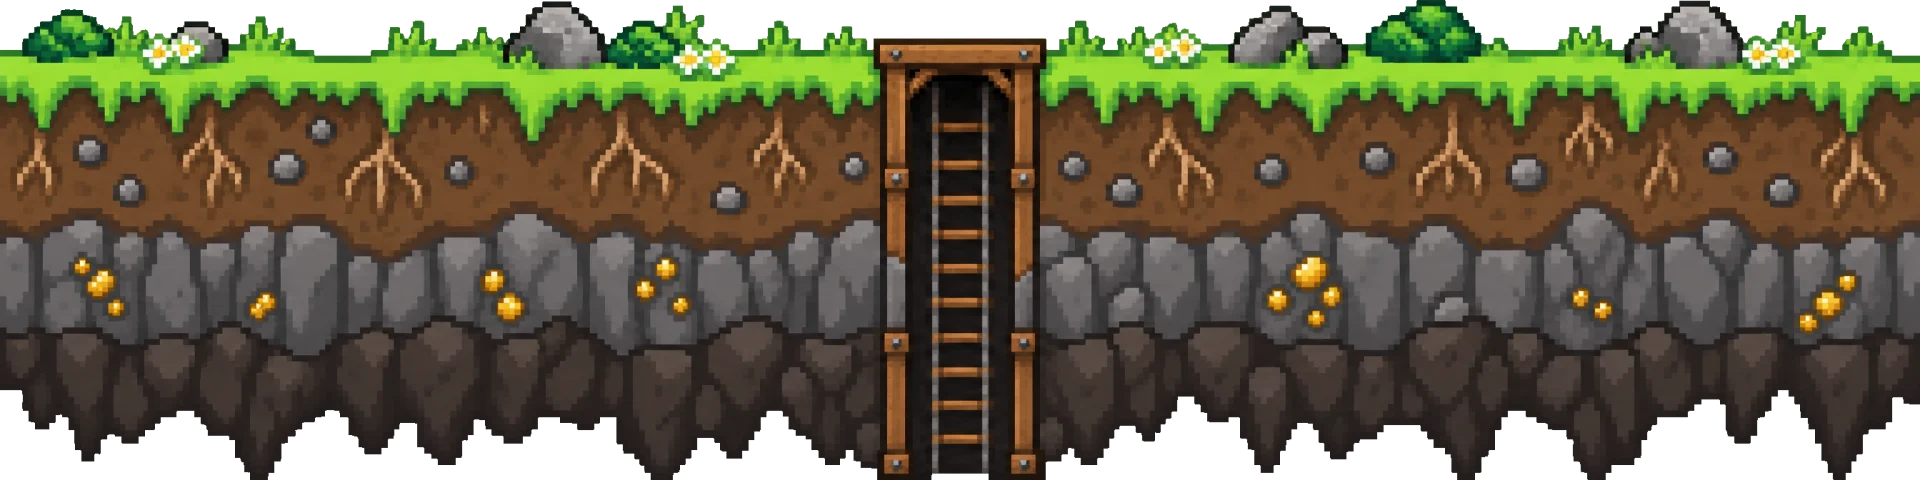
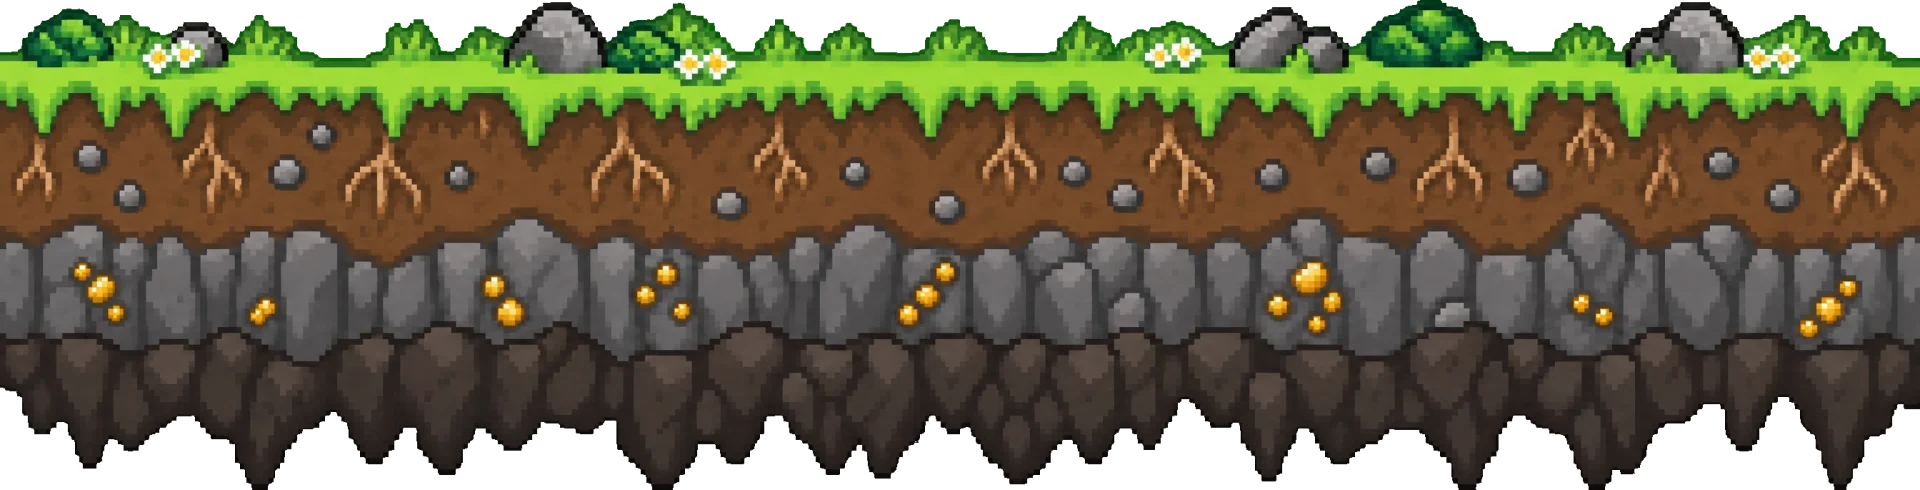
Continuity fixes: centred-trail slope, mine entrance sprite, shaft-free strata, compact footer
- New mountain face whose trail meets the summit's (x 50.3% vs 49.8%)
- Mine entrance as its own sprite sitting on the ground band's grass
- Ground/rock/magma bands regenerated without ladder/stairs
- Rules plank clear of the rock band; magma band cropped short
- Footer: no lava lake, slim bottom bar

diff --git a/components/Feed.tsx b/components/Feed.tsx
@@ -20,7 +20,7 @@ export function Feed({ state, now }: { state: GameState; now: number }) {
     <section id="challengers" aria-labelledby="feed-title" className="relative z-[6] -mt-[72px] scroll-mt-16 overflow-hidden" {...zoneAttrs("challengers")}>
       {/* One painted mountainside: the trail winds down to the mine entrance at the bottom. */}
       <div
-        className="absolute inset-0 bg-[#5f5e5d] bg-[image:image-set(url(/assets/mountain-face-800.webp)_1x,url(/assets/mountain-face-1360.webp)_2x)] bg-cover bg-[position:50%_100%] [image-rendering:pixelated] [mask-image:linear-gradient(to_bottom,transparent_0,black_72px)] lg:bg-[image:url(/assets/mountain-face-1360.webp)]"
+        className="absolute inset-0 bg-[#6a9a3a] bg-[image:image-set(url(/assets/mountain-face2-800.webp)_1x,url(/assets/mountain-face2-1440.webp)_2x)] bg-cover bg-[position:50%_0] [image-rendering:pixelated] [mask-image:linear-gradient(to_bottom,transparent_0,black_56px)] lg:bg-[image:url(/assets/mountain-face2-1440.webp)]"
         aria-hidden
       />
       <div className="absolute inset-0 bg-[linear-gradient(to_bottom,rgb(15_29_58/.05),rgb(15_29_58/.25)_40%,rgb(15_29_58/.25)_75%,transparent_92%)]" aria-hidden />
@@ -50,7 +50,6 @@ export function Feed({ state, now }: { state: GameState; now: number }) {
             </div>
           ) : (
             <ol className="relative" aria-label="Recent call outs, newest first">
-              <span className="trail-rope absolute top-0 bottom-0 left-[22px] w-1.5 opacity-80 lg:left-1/2 lg:-translate-x-1/2" aria-hidden />
               {items.map((c, i) => (
                 <Camp key={c.id} c={c} i={i} now={now} isKing={state.status === "live" && state.king?.id === c.id} />
               ))}
@@ -67,11 +66,23 @@ export function Feed({ state, now }: { state: GameState; now: number }) {
         </div>
       </div>
 
-      {/* The trail ends at the mine: leave room so the painted entrance shows. */}
-      <div className="relative flex h-[340px] items-start justify-center pt-6 sm:h-[400px] lg:h-[460px]">
-        <a href="#mine" className="px-box bg-[#5b3a22] px-4 py-2 font-display text-sm font-bold tracking-[0.18em] text-gold uppercase hover:bg-[#7a5030]">
+      {/* The trail ends at the mine entrance, which sits on the grass of the ground cross-section below. */}
+      <div className="relative flex h-[380px] flex-col items-center sm:h-[440px] lg:h-[520px]">
+        <a href="#mine" className="px-box relative z-10 mt-4 bg-[#5b3a22] px-4 py-2 font-display text-sm font-bold tracking-[0.18em] text-gold uppercase hover:bg-[#7a5030]">
           Enter the mine <span aria-hidden>▼</span>
         </a>
+        {/* eslint-disable-next-line @next/next/no-img-element */}
+        <img
+          src="/assets/mine-entrance-900.webp"
+          srcSet="/assets/mine-entrance-480.webp 480w, /assets/mine-entrance-900.webp 900w"
+          sizes="clamp(300px, 34vw, 560px)"
+          alt="A mine entrance in a mossy rock outcrop, with a lantern and rails leading in"
+          width={900}
+          height={612}
+          loading="lazy"
+          className="pixelated absolute left-1/2 w-[clamp(300px,34vw,560px)] -translate-x-1/2"
+          style={{ bottom: "calc(max(100vw, 760px) * 0.03)" }}
+        />
       </div>
     </section>
   );

diff --git a/components/Footer.tsx b/components/Footer.tsx
@@ -3,25 +3,18 @@ import { shortAddr } from "@/lib/format";
 import { CopyButton } from "./CopyButton";
 import { zoneAttrs } from "./Descent";
 
-const EMBERS = Array.from({ length: 14 }, (_, i) => ({
-  left: (i * 37 + 5) % 100,
-  delay: -((i * 1.7) % 7),
-  dur: 4 + ((i * 13) % 5),
-  dx: ((i % 5) - 2) * 10,
-}));
-
 const LINKS = [
   { href: "#challengers", label: "Challengers" },
   { href: "#mine", label: "How to play" },
   { href: "#hall", label: "Hall of kings" },
 ];
 
-// The core: the bottom of the mountain. A compact footer on basalt, with the
-// lava lake glowing underneath.
+// The core: the bottom of the mountain. A compact footer on basalt, right
+// under the lava band.
 export function Footer() {
   return (
     <footer id="core" className="relative overflow-hidden bg-[#1d1c21] text-cloud" {...zoneAttrs("core")}>
-      <div className="relative mx-auto grid max-w-[1240px] gap-10 px-4 pt-[max(9vw,72px)] pb-10 sm:px-6 md:grid-cols-[1.2fr_1fr_1.2fr] md:items-start">
+      <div className="relative mx-auto grid max-w-[1240px] gap-10 px-4 pt-[max(5vw,56px)] pb-8 sm:px-6 md:grid-cols-[1.2fr_1fr_1.2fr] md:items-start">
         <div>
           <a href="#top" className="inline-flex items-center gap-3" aria-label="Back to the summit">
             {/* eslint-disable-next-line @next/next/no-img-element */}
@@ -79,23 +72,12 @@ export function Footer() {
         </div>
       </div>
 
-      {/* The lava lake at the very bottom of the mountain */}
-      <div className="relative h-[140px] overflow-hidden sm:h-[180px]" aria-hidden>
-        {/* eslint-disable-next-line @next/next/no-img-element */}
-        <img
-          src="/assets/core-1920.webp"
-          srcSet="/assets/core-960.webp 960w, /assets/core-1920.webp 1920w"
-          sizes="100vw"
-          alt=""
-          width={1920}
-          height={823}
-          loading="lazy"
-          className="lava-shimmer pixelated absolute inset-x-0 bottom-0 h-[300%] w-full object-cover object-bottom"
-        />
-        <div className="absolute inset-x-0 top-0 h-16 bg-gradient-to-b from-[#1d1c21] to-transparent" />
-        {EMBERS.map((e, i) => (
-          <span key={i} className="ember" style={{ left: `${e.left}%`, animationDelay: `${e.delay}s`, animationDuration: `${e.dur}s`, ["--dx" as string]: `${e.dx}px` }} />
-        ))}
+      <div className="relative border-t-4 border-[#2e2c33]">
+        <div className="mx-auto flex max-w-[1240px] flex-wrap items-center justify-between gap-3 px-4 py-4 font-display text-xs font-bold tracking-wider text-cloud/55 uppercase sm:px-6">
+          <span>© {new Date().getFullYear()} King of the Hill</span>
+          <span>Powered by GMGN call outs</span>
+        </div>
+        <div className="h-1 bg-gradient-to-r from-[#e8601c] via-[#fbd322] to-[#e8601c]" aria-hidden />
       </div>
     </footer>
   );

diff --git a/components/Descent.tsx b/components/Descent.tsx
@@ -41,18 +41,30 @@ export function Edge({ fill, seed = 1, height = 40, flip = false, className = ""
 }
 
 const STRATA = {
-  ground: { w: 1920, h: 480, alt: "Cross-section of the ground: grass, roots and rock, with a mine shaft and ladder going down" },
-  rock: { w: 1920, h: 584, alt: "Deep rock layers with crystals and gold veins; the shaft ladder leads down into the crypt's stone arches" },
-  magma: { w: 1920, h: 490, alt: "Basalt with glowing lava cracks; stone stairs lead down to the core" },
+  ground: { w: 1920, h: 490, alt: "Cross-section of the ground: grass, roots, soil and rock" },
+  rock: { w: 1920, h: 588, alt: "Deep rock with crystals and gold veins above the crypt's stone arches" },
+  magma: { w: 1920, h: 500, alt: "Basalt with glowing lava cracks at the bottom of the mountain" },
 } as const;
 
 // A cross-section band of rock that bridges two layers of the descent. It
-// overlaps both neighbours (negative margins) so there is never a hard cut,
-// and its central shaft (ladder, then stairs) is the thread down the page.
-// overlapTop / overlapBottom are fractions of the band's rendered height.
-export function Stratum({ kind, overlapTop, overlapBottom }: { kind: keyof typeof STRATA; overlapTop: number; overlapBottom: number }) {
+// overlaps both neighbours (negative margins, as fractions of its rendered
+// height) so there is never a hard cut. `height` shows a shorter band cropped
+// from the top (its jagged bottom edge is kept), faded into the layer above.
+export function Stratum({
+  kind,
+  overlapTop,
+  overlapBottom,
+  height,
+  fadeFrom,
+}: {
+  kind: keyof typeof STRATA;
+  overlapTop: number;
+  overlapBottom: number;
+  height?: string;
+  fadeFrom?: string;
+}) {
   const a = STRATA[kind];
-  const h = `(max(100vw, 760px) * ${a.h / a.w})`;
+  const h = height ?? `(max(100vw, 760px) * ${a.h / a.w})`;
   return (
     <div className="pointer-events-none relative z-20 overflow-x-clip" style={{ marginTop: `calc(-1 * ${h} * ${overlapTop})`, marginBottom: `calc(-1 * ${h} * ${overlapBottom})` }}>
       {/* eslint-disable-next-line @next/next/no-img-element */}
@@ -64,8 +76,10 @@ export function Stratum({ kind, overlapTop, overlapBottom }: { kind: keyof typeo
         width={a.w}
         height={a.h}
         loading="lazy"
-        className="pixelated relative left-1/2 block w-[max(100vw,760px)] max-w-none -translate-x-1/2"
+        className="pixelated relative left-1/2 block w-[max(100vw,760px)] max-w-none -translate-x-1/2 object-cover object-bottom"
+        style={height ? { height: `calc(${height})` } : undefined}
       />
+      {fadeFrom ? <div className="absolute inset-x-0 top-0 h-1/3" style={{ background: `linear-gradient(${fadeFrom}, transparent)` }} /> : null}
     </div>
   );
 }

diff --git a/components/HowTo.tsx b/components/HowTo.tsx
@@ -54,7 +54,7 @@ export function HowTo() {
         </div>
       </div>
 
-      <div className="relative mx-auto max-w-[1240px] px-4 pb-24 sm:px-6">
+      <div className="relative mx-auto max-w-[1240px] px-4 pb-[calc(max(100vw,760px)*0.08+64px)] sm:px-6">
         <ol className="grid gap-x-8 gap-y-14 md:grid-cols-3">
           {STEPS.map((s, i) => (
             <li key={s.n} data-reveal style={{ ["--i" as string]: i }} className="relative pt-10">

diff --git a/components/Game.tsx b/components/Game.tsx
@@ -18,7 +18,7 @@ export function Game({ initial }: { initial: GameState }) {
       <HowTo />
       <Stratum kind="rock" overlapTop={0.24} overlapBottom={0.36} />
       <Hall state={state} />
-      <Stratum kind="magma" overlapTop={0.26} overlapBottom={0.26} />
+      <Stratum kind="magma" overlapTop={0.12} overlapBottom={0.2} height="clamp(190px, 17vw, 300px)" fadeFrom="#161a2e" />
     </>
   );
 }

diff --git a/components/Hall.tsx b/components/Hall.tsx
@@ -113,7 +113,7 @@ export function Hall({ state }: { state: GameState }) {
         ) : null}
       </div>
 
-      <div className="h-24" />
+      <div className="h-6" />
     </section>
   );
 }

diff --git a/AGENTS.md b/AGENTS.md
@@ -30,13 +30,13 @@ A game site for a Flap token: the **last GMGN call out** on the token holds the 
 ## Design direction: "The Descent" (v4, 2026-09-27)
 The whole page is one mountain, read top to bottom. **Continuity between layers is the top priority**: no hard cuts. Every boundary is bridged by art that overlaps both neighbours.
 - **Summit** (hero, title screen): wordmark centred at the top, clock on the left, current king on the right, and the croc on the peak in the middle (`summit2-*`). Its base fills the full width, and its trail exits at the bottom centre.
-- **Slopes** (challengers): `mountain-face-*` fades in over the summit's base (the section is pulled up 72px with a masked top), so both trails connect. Challenger camps line the trail, which ends at a painted mine entrance.
-- **Stratum "ground"**: a cross-section of grass, soil and rock with a **mine shaft and ladder at the centre**, directly under the entrance.
+- **Slopes** (challengers): `mountain-face2-*` (its trail runs top to bottom at x≈50%, measured to match the summit's exit at 50.3%) fades in over the summit's base, anchored at the top so they connect at any width. At the end sits a separate `mine-entrance-*` sprite, placed on the ground stratum's grass.
+- **Stratum "ground"**: a cross-section of grass, soil and rock with no shaft or ladder (Nicol's call).
 - **Mine** (how to play): mine art header, three wooden signs on chains, and a "Mine rules" plank.
-- **Stratum "rock"**: rock with crystals; the ladder continues down into the crypt's stone arches.
+- **Stratum "rock"**: rock with crystals above the crypt's stone arches (no ladder).
 - **Crypt of kings** (hall): crypt art header; each king is a stone tomb.
-- **Stratum "magma"**: stone stairs down through lava cracks.
-- **Core** (footer): compact (brand, explore links, CA + links) on basalt above a thin lava lake with embers. No disclaimers, no altimeter, no floating torch/cart/ladder sprites (Nicol's call).
+- **Stratum "magma"**: a short lava band cropped from the top, with no stairs, faded from the crypt colour.
+- **Core** (footer): compact (brand, explore links, CA + links) on basalt, a slim bottom bar, and a lava-gradient rule. No disclaimers, no altimeter, no floating torch/cart/ladder sprites (Nicol's call).
 - Strata live in `components/Descent.tsx` (`<Stratum kind overlapTop overlapBottom>`, overlaps as fractions of the band's rendered height, min width 760px on mobile).
 Avoid hard section cuts, dark "crypto dashboard" styling, rounded corners, soft shadows, and smooth easing (use `steps()`).
 - Engine: `components/ScrollEngine.tsx` (a single rAF loop). It handles `data-parallax`, `data-reveal` (→ `.is-in`) and `data-zone` (→ `--hud` nav colour). Sprites are pixel-map SVGs in `components/sprites.tsx` and `pixel.tsx`.
